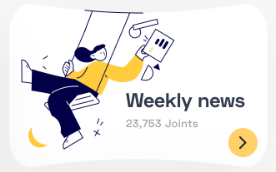
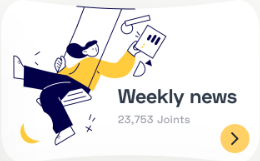
correction

diff --git a/index.html b/index.html
@@ -16,24 +16,36 @@
             <img src="./images/four_dots.png" alt="Four dots">
         </div>
         <div class="aside-list">
-            <div>
-                <img src="./images/dashboard_icon.png" alt="Dashboard icon">
+            <div class="dashboard">
+                <svg style="color: black;" height="35px" width="35px" stroke="currentColor" fill="currentColor" stroke-width="0" viewBox="0 0 24 24" xmlns="http://www.w3.org/2000/svg">
+                    <path fill="none" d="M0 0h24v24H0z"></path>
+                    <path d="M3 13h8V3H3v10zm0 8h8v-6H3v6zm10 0h8V11h-8v10zm0-18v6h8V3h-8z"></path>
+                </svg>
                 <span>Dashboard</span>
             </div>
             <div>
-                <img src="./images/profile.png" alt="Profile">
+                <svg height="25px" width="25px" stroke="currentColor" fill="none" stroke-width="0" viewBox="0 0 24 24" xmlns="http://www.w3.org/2000/svg">
+                    <path fill-rule="evenodd" clip-rule="evenodd" d="M16 9C16 11.2091 14.2091 13 12 13C9.79086 13 8 11.2091 8 9C8 6.79086 9.79086 5 12 5C14.2091 5 16 6.79086 16 9ZM14 9C14 10.1046 13.1046 11 12 11C10.8954 11 10 10.1046 10 9C10 7.89543 10.8954 7 12 7C13.1046 7 14 7.89543 14 9Z" fill="currentColor"></path>
+                    <path fill-rule="evenodd" clip-rule="evenodd" d="M12 1C5.92487 1 1 5.92487 1 12C1 18.0751 5.92487 23 12 23C18.0751 23 23 18.0751 23 12C23 5.92487 18.0751 1 12 1ZM3 12C3 14.0902 3.71255 16.014 4.90798 17.5417C6.55245 15.3889 9.14627 14 12.0645 14C14.9448 14 17.5092 15.3531 19.1565 17.4583C20.313 15.9443 21 14.0524 21 12C21 7.02944 16.9706 3 12 3C7.02944 3 3 7.02944 3 12ZM12 21C9.84977 21 7.87565 20.2459 6.32767 18.9878C7.59352 17.1812 9.69106 16 12.0645 16C14.4084 16 16.4833 17.1521 17.7538 18.9209C16.1939 20.2191 14.1881 21 12 21Z" fill="currentColor"></path>
+                </svg>
                 <p>Profile</p>
             </div>
             <div>
-                <img src="./images/courses.png" alt="Courses">
+                <svg height="25px" width="25px" stroke="currentColor" fill="currentColor" stroke-width="0" viewBox="0 0 512 512" xmlns="http://www.w3.org/2000/svg">
+                    <path d="M0 224.2C0 100.6 100.2 0 224 0h24c95.2 0 181.2 69.3 197.3 160.2c2.3 13 6.8 25.7 15.1 36l42 52.6c6.2 7.8 9.6 17.4 9.6 27.4c0 24.2-19.6 43.8-43.8 43.8H448v64c0 35.3-28.7 64-64 64H320v32c0 17.7-14.3 32-32 32H96c-17.7 0-32-14.3-32-32V407.3c0-16.7-6.9-32.5-17.1-45.8C16.6 322.4 0 274.1 0 224.2zM224 64c-8.8 0-16 7.2-16 16c0 33-39.9 49.5-63.2 26.2c-6.2-6.2-16.4-6.2-22.6 0s-6.2 16.4 0 22.6C145.5 152.1 129 192 96 192c-8.8 0-16 7.2-16 16s7.2 16 16 16c33 0 49.5 39.9 26.2 63.2c-6.2 6.2-6.2 16.4 0 22.6s16.4 6.2 22.6 0C168.1 286.5 208 303 208 336c0 8.8 7.2 16 16 16s16-7.2 16-16c0-33 39.9-49.5 63.2-26.2c6.2 6.2 16.4 6.2 22.6 0s6.2-16.4 0-22.6C302.5 263.9 319 224 352 224c8.8 0 16-7.2 16-16s-7.2-16-16-16c-33 0-49.5-39.9-26.2-63.2c6.2-6.2 6.2-16.4 0-22.6s-16.4-6.2-22.6 0C279.9 129.5 240 113 240 80c0-8.8-7.2-16-16-16zm-24 96a24 24 0 1 1 0 48 24 24 0 1 1 0-48zm40 80a16 16 0 1 1 32 0 16 16 0 1 1 -32 0z"></path>
+                </svg>
                 <p>Courses</p>
             </div>
             <div>
-                <img src="./images/message.png" alt="Message">
+                <svg height="25px" width="25px" stroke="currentColor" fill="currentColor" stroke-width="0" version="1.2" baseProfile="tiny" viewBox="0 0 24 24" xmlns="http://www.w3.org/2000/svg">
+                    <path d="M21 7h-3c0-1.65-1.35-3-3-3h-12c-1.65 0-3 1.35-3 3v7c0 1.65 1.35 3 3 3v3l3-3c0 1.65 1.35 3 3 3h8l3 3v-3h1c1.65 0 3-1.35 3-3v-7c0-1.65-1.35-3-3-3zm-18 8c-.542 0-1-.458-1-1v-7c0-.542.458-1 1-1h12c.542 0 1 .458 1 1v1h-6.5c-1.379 0-2.5 1.121-2.5 2.5v4.5h-4zm19 2c0 .542-.458 1-1 1h-12c-.542 0-1-.458-1-1v-6.5c0-.827.673-1.5 1.5-1.5h11.5c.542 0 1 .458 1 1v7z"></path>
+                </svg>
                 <p>Message</p>
             </div>
             <div>
-                <img src="./images/setting.png" alt="Setting">
+                <svg height="25px" width="25px" stroke="currentColor" fill="currentColor" stroke-width="0" viewBox="0 0 512 512" xmlns="http://www.w3.org/2000/svg">
+                    <path d="M416.3 256c0-21 13.1-38.9 31.7-46.1-4.9-20.5-13-39.7-23.7-57.1-6.4 2.8-13.2 4.3-20.1 4.3-12.6 0-25.2-4.8-34.9-14.4-14.9-14.9-18.2-36.8-10.2-55-17.3-10.7-36.6-18.8-57-23.7C295 82.5 277 95.7 256 95.7S217 82.5 209.9 64c-20.5 4.9-39.7 13-57.1 23.7 8.1 18.1 4.7 40.1-10.2 55-9.6 9.6-22.3 14.4-34.9 14.4-6.9 0-13.7-1.4-20.1-4.3C77 170.3 68.9 189.5 64 210c18.5 7.1 31.7 25 31.7 46.1 0 21-13.1 38.9-31.6 46.1 4.9 20.5 13 39.7 23.7 57.1 6.4-2.8 13.2-4.2 20-4.2 12.6 0 25.2 4.8 34.9 14.4 14.8 14.8 18.2 36.8 10.2 54.9 17.4 10.7 36.7 18.8 57.1 23.7 7.1-18.5 25-31.6 46-31.6s38.9 13.1 46 31.6c20.5-4.9 39.7-13 57.1-23.7-8-18.1-4.6-40 10.2-54.9 9.6-9.6 22.2-14.4 34.9-14.4 6.8 0 13.7 1.4 20 4.2 10.7-17.4 18.8-36.7 23.7-57.1-18.4-7.2-31.6-25.1-31.6-46.2zm-159.4 79.9c-44.3 0-80-35.9-80-80s35.7-80 80-80 80 35.9 80 80-35.7 80-80 80z"></path>
+                </svg>
                 <p>Setting</p>
             </div>
             <div class="large-icon">
@@ -51,7 +63,7 @@
                     <img src="./images/design_top.png" alt="design thinking">
                     <h3>Design Thinking: the Beginner's Guide</h3>
                     <div class="bar">
-                        <progress class="progress" value="23" max="100">25%</progress>
+                        <progress value="23" max="100">25%</progress>
                         <div>
                             <p>Booked: 23%</p>
                             <p>Days: 07</p>
@@ -97,60 +109,88 @@
 
         <section class="course-list">
             <div class="course-details">
-                <img src="./images/one.png" alt="icon">
-                <p>Adobe Photoshop CC 2019 - Free Essentials Training course</p>
-                <img src="./images/fire.png" alt="fire">
-                <p>8.9</p>
-                <button>View Course</button>
-                <img class="dots" src="./images/three_dots.png" alt="three dots">
+                <div>
+                    <img src="./images/one.png" alt="icon">
+                    <p>Adobe Photoshop CC 2019 - Free Essentials <br> Training course</p>
+                </div>
+                <div class="fire">
+                    <img src="./images/fire.png" alt="fire">
+                    <p>8.9</p>
+                    <button>View Course</button>
+                    <img class="dots" src="./images/three_dots.png" alt="three dots">
+                </div>
             </div>
             <div class="course-details">
-                <img src="./images/two.png" alt="icon">
-                <p>The Beginner's Guide to Color Theory for Digital Artist</p>
-                <img src="./images/fire.png" alt="fire">
-                <p>7.8</p>
-                <button>View Course</button>
-                <img class="dots" src="./images/three_dots.png" alt="three dots">
+                <div>
+                    <img src="./images/two.png" alt="icon">
+                    <p>The Beginner's Guide to Color Theory for <br>Digital Artist</p>
+                </div>
+                <div class="fire">
+                    <img src="./images/fire.png" alt="fire">
+                    <p>7.8</p>
+                    <button>View Course</button>
+                    <img class="dots" src="./images/three_dots.png" alt="three dots">
+                </div>
             </div>
             <div class="course-details">
-                <img src="./images/three.png" alt="icon">
-                <p>Design-Led Strategy: Design thinking for business strategy and startup</p>
-                <img src="./images/fire.png" alt="fire">
-                <p>5.4</p>
-                <button>View Course</button>
-                <img class="dots" src="./images/three_dots.png" alt="three dots">
+                <div>
+                    <img src="./images/three.png" alt="icon">
+                    <p>Design-Led Strategy: Design thinking for <br> business strategy and startup</p>
+                </div>
+                <div class="fire">
+                    <img src="./images/fire.png" alt="fire">
+                    <p>5.4</p>
+                    <button>View Course</button>
+                    <img class="dots" src="./images/three_dots.png" alt="three dots">
+                </div>
             </div>
             <div class="course-details">
-                <img src="./images/four.png" alt="icon">
-                <p>Introduction to iOS App Development with Swift 5</p>
-                <img src="./images/fire.png" alt="fire">
-                <p>3.5</p>
-                <button>View Course</button>
-                <img class="dots" src="./images/three_dots.png" alt="three dots">
+                <div>
+                    <img src="./images/four.png" alt="icon">
+                    <p>Introduction to iOS App Development with <br> Swift 5</p>
+                </div>
+                <div class="fire">
+                    <img src="./images/fire.png" alt="fire">
+                    <p>3.5</p>
+                    <button>View Course</button>
+                    <img class="dots" src="./images/three_dots.png" alt="three dots">
+                </div>
             </div>
             <div class="course-details">
-                <img src="./images/five.png" alt="icon">
-                <p>Web Design for Everybody: Basics of Web Development & Coding Specialization</p>
-                <img src="./images/fire.png" alt=" fire">
-                <p>2.9</p>
-                <button>View Course</button>
-                <img class="dots" src="./images/three_dots.png" alt="three dots">
+                <div>
+                    <img src="./images/five.png" alt="icon">
+                    <p>Web Design for Everybody: Basics of Web <br> Development & Coding Specialization</p>
+                </div>
+                <div class="fire">
+                    <img src="./images/fire.png" alt=" fire">
+                    <p>2.9</p>
+                    <button>View Course</button>
+                    <img class="dots" src="./images/three_dots.png" alt="three dots">
+                </div>
             </div>
             <div class="course-details">
-                <img src="./images/six.png" alt="icon">
-                <p>Work Smarter Harder: Time Management for Personal & Professional Productivity</p>
-                <img src="./images/fire.png" alt="fire">
-                <p>8.3</p>
-                <button>View Course</button>
-                <img class="dots" src="./images/three_dots.png" alt="three dots">
+                <div>
+                    <img src="./images/six.png" alt="icon">
+                    <p>Work Smarter Harder: Time Management for <br> Personal & Professional Productivity</p>
+                </div>
+                <div class="fire">
+                    <img src="./images/fire.png" alt="fire">
+                    <p>8.3</p>
+                    <button>View Course</button>
+                    <img class="dots" src="./images/three_dots.png" alt="three dots">
+                </div>
             </div>
             <div class="course-details">
-                <img src="./images/seven.png" alt="icon">
-                <p>Design strategy: design thinking for business strategy and entrepreneurship</p>
-                <img src="./images/fire.png" alt="fire">
-                <p>7.5</p>
-                <button>View Course</button>
-                <img class="dots" src="./images/three_dots.png" alt="three dots">
+                <div>
+                    <img src="./images/seven.png" alt="icon">
+                    <p>Design strategy: design thinking for business <br> strategy and entrepreneurship</p>
+                </div>
+                <div class="fire">
+                    <img src="./images/fire.png" alt="fire">
+                    <p>7.5</p>
+                    <button>View Course</button>
+                    <img class="dots" src="./images/three_dots.png" alt="three dots">
+                </div>
             </div>
         </section>
 
@@ -159,7 +199,7 @@
 
     <aside class="right">
 
-        <img src="./images/weekly_news.png" alt="weekly news">
+        <img style="border-radius: 1.3rem;" src="./images/weekly_news.png" alt="weekly news">
         <div class="intro">
             <img src="./images/photo.png" alt="Subash Chandra">
             <div>

diff --git a/style.css b/style.css
@@ -30,6 +30,30 @@ aside {
     width: 40px;
 }
 
+.dashboard {
+    display: flex;
+    align-content: center;
+    width: 200px;
+    height: 50px;
+    background-color: rgb(254, 246, 223);
+    padding: 0.1rem 0 1.7rem 0.4rem;
+    border-radius: 0.4rem;
+}
+
+.dashboard svg {
+    background-color: rgb(254, 218, 132);
+    padding: 0.1rem;
+    margin: 0.2rem;
+    border-radius: 0.5rem;
+    color: black;
+}
+
+.dashboard span {
+    font-weight: 600;
+    color: black;
+
+}
+
 .aside-list div {
     display: flex;
     flex-direction: row;
@@ -38,19 +62,17 @@ aside {
     margin: 1.5rem 0 1rem 2rem;
     padding-top: 1.8rem;
     color: rgb(208, 210, 214);
-
 }
 
-.aside-list img {
-    width: 1rem;
-    height: 1rem;
+.aside-list svg {
+    color: rgb(208, 210, 214);
 }
 
 
 .aside-list .large-icon img {
     width: 180px;
     height: 230px;
-    margin-top: 19rem;
+    margin-top: 8rem;
 }
 
 main {
@@ -128,9 +150,11 @@ width: 200px;
 
 
 .progress {
-    width: 100%;
-    
+    width: 100%; 
 }
+
+
+
 
 .display .bar .progress p {
     display: flex;
@@ -162,9 +186,10 @@ width: 200px;
 .course-details {
     display: flex;
     flex-direction: row;
-    align-items: center;
+    justify-content: space-between;
     gap: 0.5rem;
     background-color: white;
+    color: rgb(128, 134, 144);
     border-radius: 10px;
     padding: 0.5rem;
 }
@@ -176,19 +201,26 @@ width: 200px;
     margin-right:3rem;
 }
 
+.fire p {
+    margin-right: 2rem;
+    color: rgb(143, 149, 157);
+
+}
+
 .course-details button {
     background-color: rgb(254, 218, 132);
     border: none;
     border-radius: 5px;
-    padding: 0.5rem 2.5rem 0.5rem 2.5rem;
+    padding: 0.7rem 2.5rem 0.7rem 2.5rem;
+    color: rgb(168, 150, 108);
 
 }
 
 .right {
     background-color: rgb(244, 244, 242);
-    padding-top: 1rem;
+    padding-top: 1.5rem;
     padding-right: 1rem;
-    gap: 0.5rem;
+    gap: 1.5rem;
     width: 280px;
 }
 
@@ -230,9 +262,7 @@ width: 200px;
     display: flex;
     flex-direction: row;
     flex-wrap: wrap;
-    gap: 7px;
-    
-    
+    gap: 11px;  
 }
 
 .four_items div {
@@ -271,17 +301,13 @@ width: 200px;
     padding-top: 1rem;
 }
 
-
-
 .subjects > img {
     width: 45px;
     height: 45px;
     border-radius: 20px;
-    align-self: center;
-    margin-right: 10px;
+    margin: 0.7rem 0.5rem;
     
- 
-    
+
 }
 
 .subjects div {
@@ -289,10 +315,13 @@ width: 200px;
     flex-direction: column;
 }
 
+.subjects h4 {
+color: rgb(49, 59, 75);
+}
+
 .subjects div p {
     font-size: 0.8rem;
     color: rgb(208, 210, 214);
-
 }
 
 .view {
